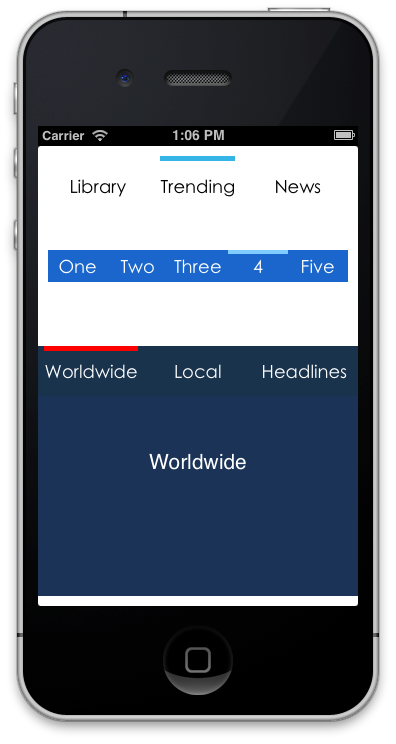
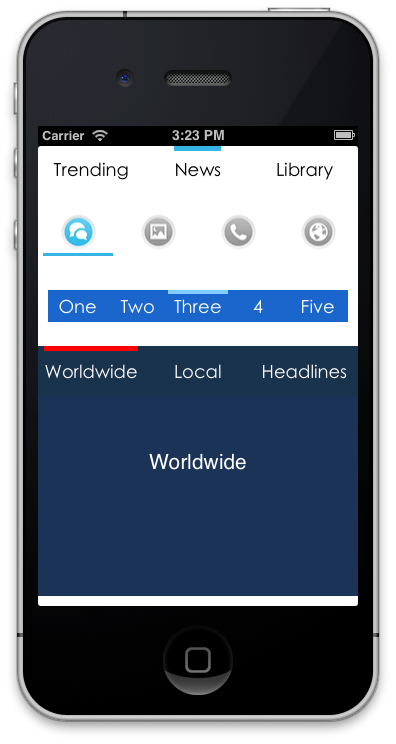
Updating screenshot.

Changed region(s): [[0.1212, 0.1546, 0.8788, 0.4328]]

diff --git a/HMSegmentedControlExample/HMSegmentedControlExample/ViewController.m b/HMSegmentedControlExample/HMSegmentedControlExample/ViewController.m
@@ -19,7 +19,7 @@
     [super viewDidLoad];
     
     // Minimum code required to use the segmented control with the default styling.
-    HMSegmentedControl *segmentedControl = [[HMSegmentedControl alloc] initWithSectionTitles:@[@"Library", @"Trending", @"News"]];
+    HMSegmentedControl *segmentedControl = [[HMSegmentedControl alloc] initWithSectionTitles:@[@"Trending", @"News", @"Library"]];
     [segmentedControl setFrame:CGRectMake(0, 0, 320, 45)];
     [segmentedControl addTarget:self action:@selector(segmentedControlChangedValue:) forControlEvents:UIControlEventValueChanged];
     [self.view addSubview:segmentedControl];
